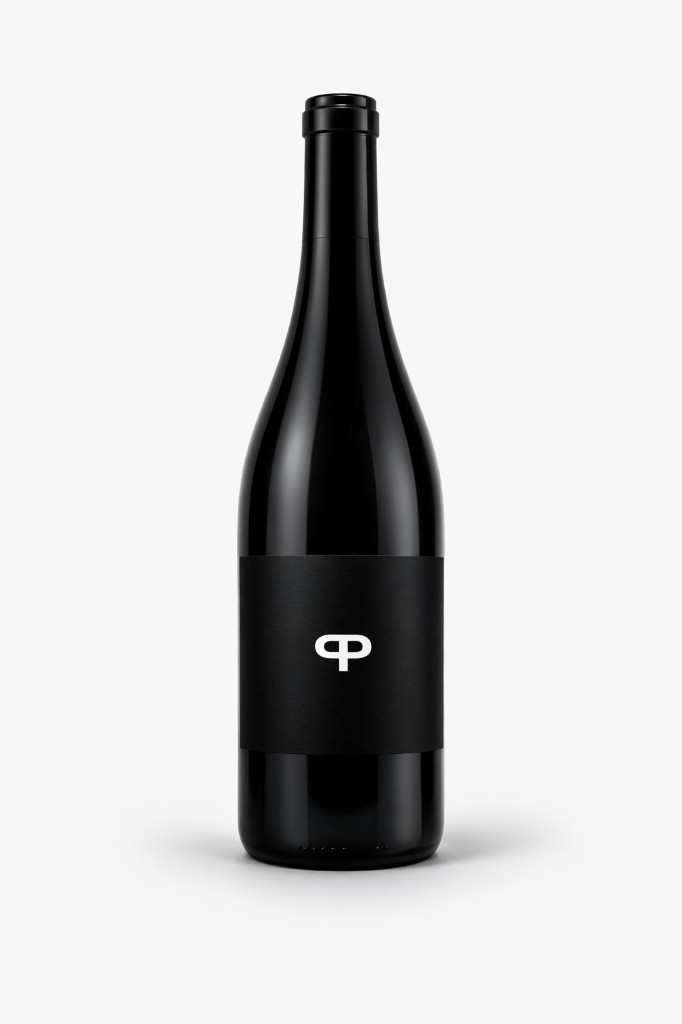
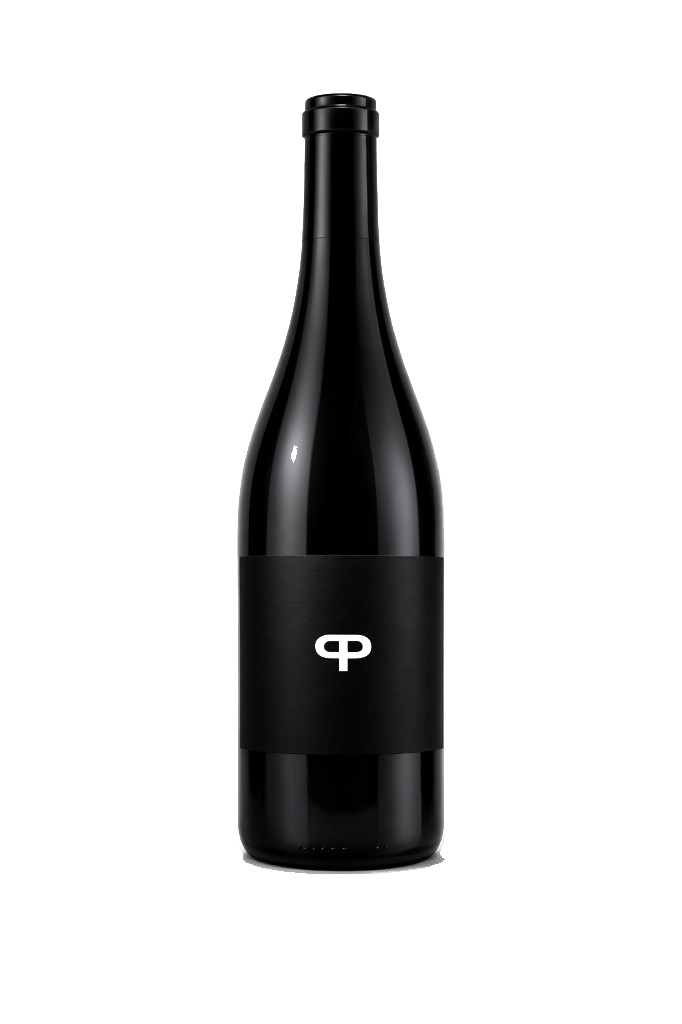
Clarify Systembolaget list ranks and fill missing bottle images.
Use a black rank pill and the shared default bottle with a transparent background.

Changed region(s): [[0.2463, 0.7812, 0.8006, 0.875]]

diff --git a/lib/guides/systembolaget-ranked-list.tsx b/lib/guides/systembolaget-ranked-list.tsx
@@ -19,6 +19,7 @@ import {
   type GuideArticleContent,
 } from "@/lib/guides/guide-types";
 import type { AppLocale } from "@/lib/i18n/locale";
+import { DEFAULT_WINE_IMAGE_PATH } from "@/lib/constants";
 import { getSiteConfig } from "@/lib/site-config";
 import {
   formatRankBadge,
@@ -113,27 +114,21 @@ function BottleImage({
 }) {
   const { producer, secondary } = wineNameParts(wine);
   const alt = [producer, secondary].filter(Boolean).join(" ");
-  const src = systembolagetImageUrl(wine.image_url, size);
+  const src =
+    systembolagetImageUrl(wine.image_url, size) ?? DEFAULT_WINE_IMAGE_PATH;
 
   return (
-    <div
-      className="flex h-[120px] w-16 shrink-0 items-center justify-center md:h-[300px] md:w-40"
-      aria-hidden={src ? undefined : true}
-    >
-      {src ? (
-        <Image
-          src={src}
-          alt={alt}
-          width={BOTTLE_WIDTH_DESKTOP}
-          height={BOTTLE_HEIGHT_DESKTOP}
-          className="block h-full w-full object-contain object-top"
-          sizes="(min-width: 768px) 160px, 64px"
-          priority={priority}
-          loading={priority ? undefined : "lazy"}
-        />
-      ) : (
-        <span className="sr-only">{alt}</span>
-      )}
+    <div className="flex h-[120px] w-16 shrink-0 items-center justify-center md:h-[300px] md:w-40">
+      <Image
+        src={src}
+        alt={alt}
+        width={BOTTLE_WIDTH_DESKTOP}
+        height={BOTTLE_HEIGHT_DESKTOP}
+        className="block h-full w-full object-contain object-top"
+        sizes="(min-width: 768px) 160px, 64px"
+        priority={priority}
+        loading={priority ? undefined : "lazy"}
+      />
     </div>
   );
 }
@@ -173,8 +168,11 @@ function RankedWineRow({
   return (
     <article className="border-b border-border py-6 last:border-b-0 md:min-h-[calc(300px+3rem)]">
       <div className="grid grid-cols-[auto_auto_minmax(0,1fr)] items-start gap-x-3 gap-y-3 md:gap-x-4">
-        <div className="row-start-1 flex flex-col items-center gap-1 md:pt-0 pt-0.5">
-          <span className="text-4xl font-light leading-none text-muted-foreground/40 tabular-nums md:text-3xl">
+        <div className="row-start-1 flex flex-col items-center gap-1.5 md:pt-0 pt-0.5">
+          <span
+            className="inline-flex h-9 min-w-9 items-center justify-center rounded-full bg-foreground px-2.5 text-sm font-semibold tabular-nums leading-none text-background md:h-10 md:min-w-10 md:text-base"
+            aria-label={locale === "sv" ? `Plats ${rank}` : `Rank ${rank}`}
+          >
             {rank}
           </span>
           {showRankBadge ? (
